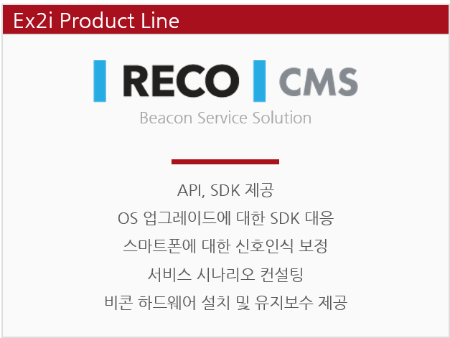
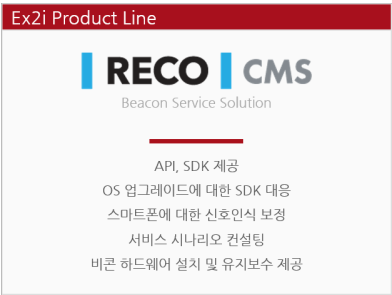
이미지 파일 변경

diff --git a/index.html b/index.html
@@ -84,8 +84,8 @@ i<html xmlns="http://www.w3.org/1999/xhtml" lang="ko" xml:lang="ko">
 
 
 		<div class="work5"> 
-			<span><img src="images/homepage_work1.png" width="395px" alt=""/> </span>
-			<span><img src="images/homepage_work2.png" width="395px" alt=""/> </span>
+			<span><img src="images/homepage_work1.png" alt=""/> </span>
+			<span><img src="images/homepage_work2.png" alt=""/> </span>
 		</div>
 		
 		<div class="work6" style="float:right;">
